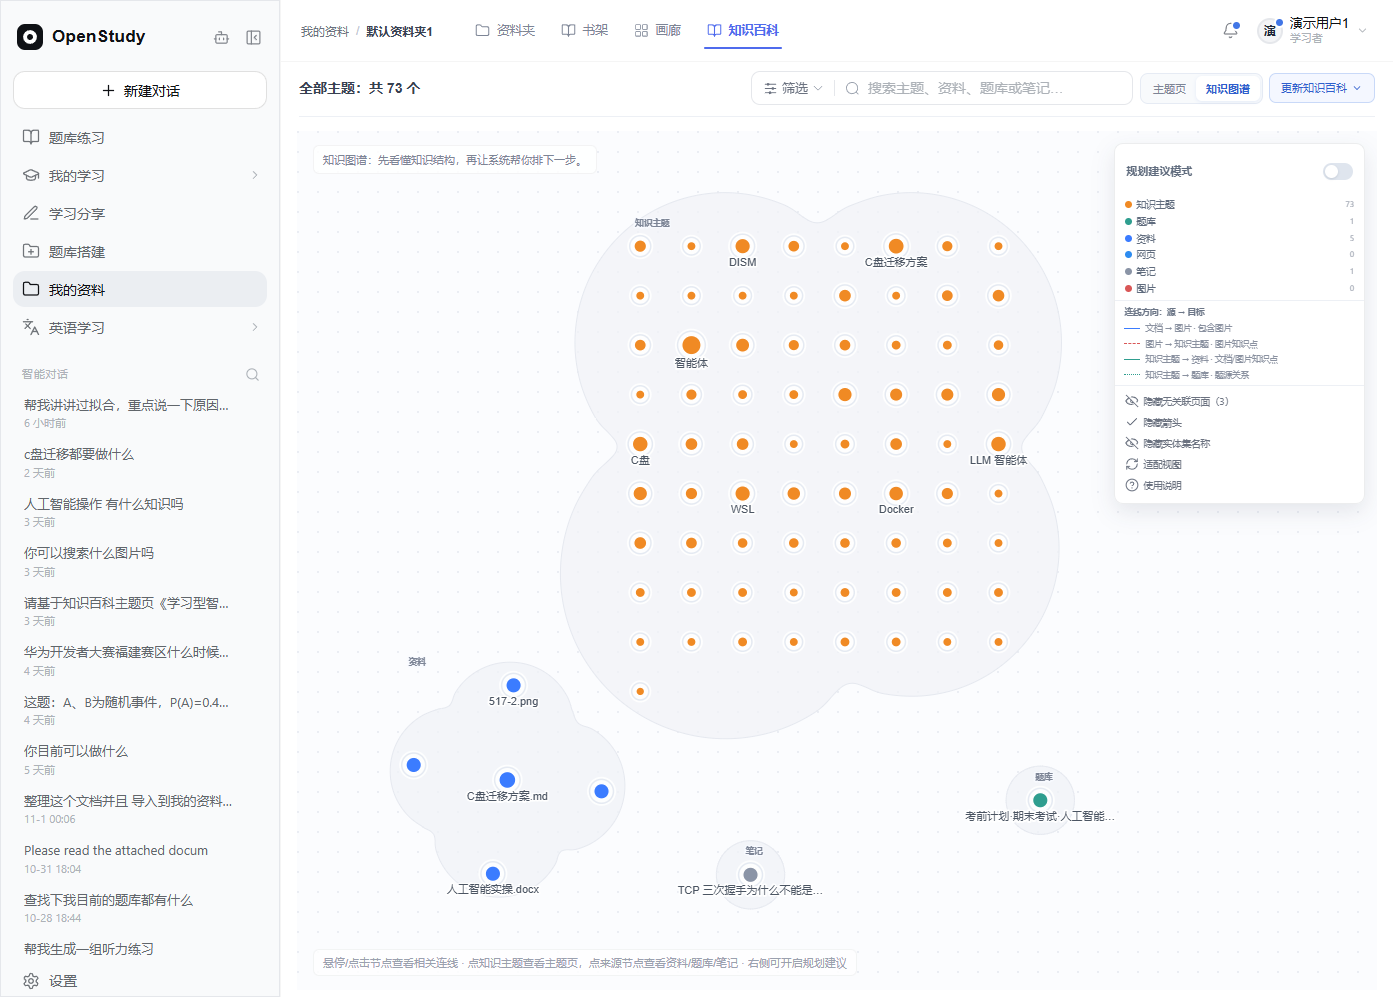
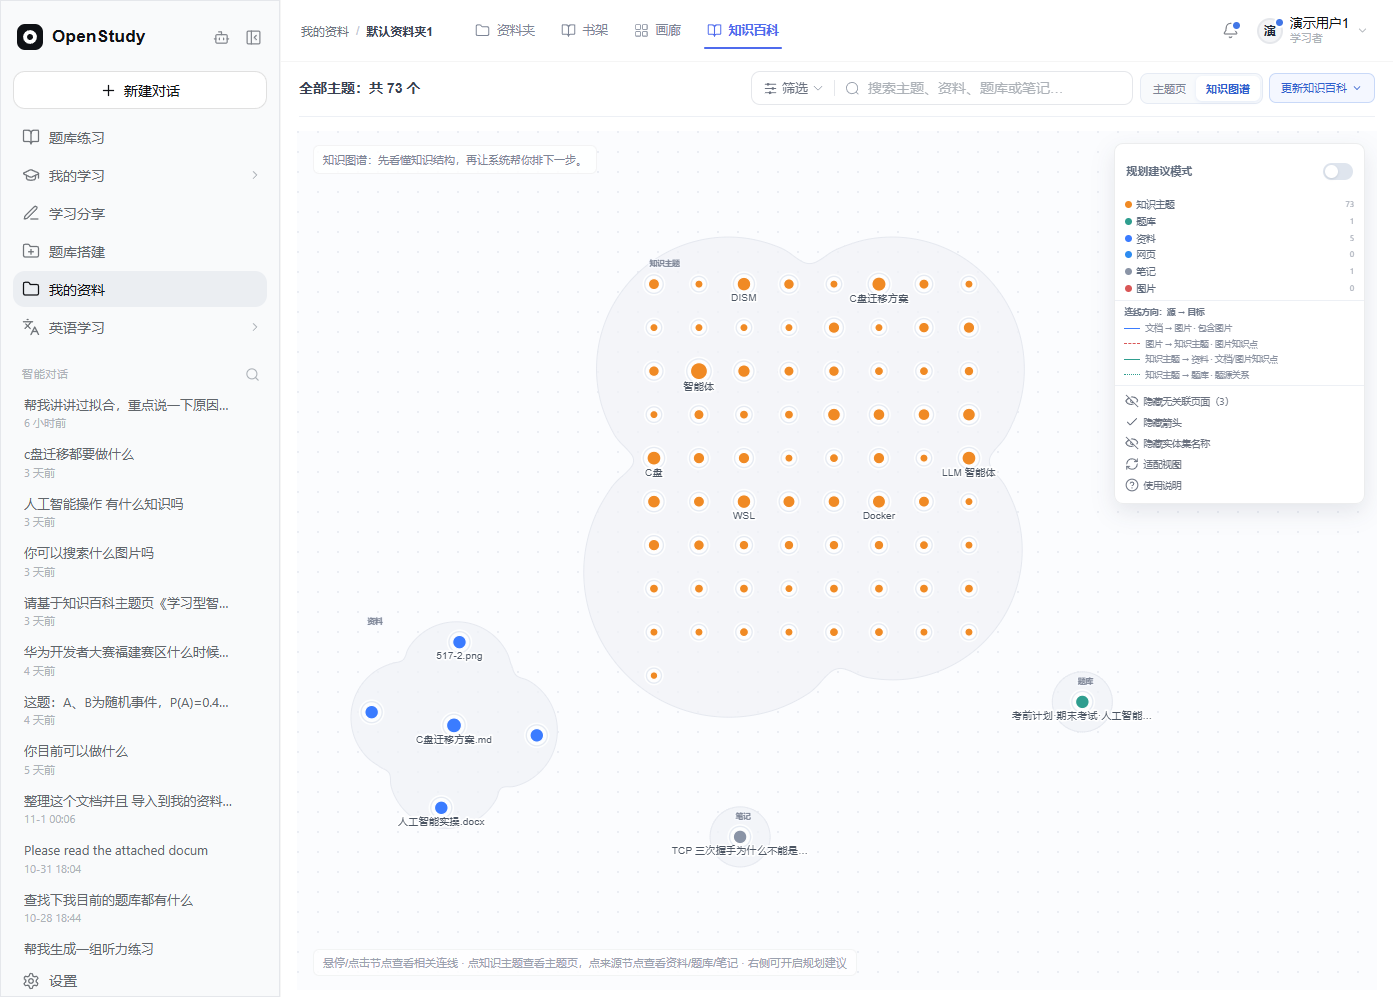
fix: expand graph canvas before groups collide

diff --git a/openstudy-vue3-ts/src/views/front/workspace/components/KnowledgeWikiPanel.vue b/openstudy-vue3-ts/src/views/front/workspace/components/KnowledgeWikiPanel.vue
@@ -1019,6 +1019,24 @@ const mapNodes = computed(() => {
       radius: Math.max(halfWidth, halfHeight)
     }
   })
+  // 如果当前窗口宽度不足以容纳最大的两组，就扩展虚拟画布；再由 fitMapView 统一缩放。
+  // 这样宁可整体缩小一点，也不会把组强行压到互相重叠。
+  let maxPairRadius = 0
+  for (let i = 0; i < groupLayouts.length; i += 1) {
+    for (let j = i + 1; j < groupLayouts.length; j += 1) {
+      maxPairRadius = Math.max(maxPairRadius, groupLayouts[i]!.radius + groupLayouts[j]!.radius)
+    }
+  }
+  const layoutWidth = Math.max(
+    usableWidth,
+    Math.ceil(maxPairRadius * 2 + groupGap + 36)
+  )
+  if (layoutWidth > usableWidth) {
+    const ratio = layoutWidth / usableWidth
+    groupLayouts.forEach((layout) => {
+      layout.center.x = Math.round(layout.center.x * ratio)
+    })
+  }
   // 组间分离：把每个实体集当成有半径的圆，用简单迭代把重叠的组推开。
   // 这是实际几何计算，不再依赖某一组固定坐标，窗口变大/变小时组与组之间始终保留 gap。
   for (let pass = 0; pass < 90; pass += 1) {
@@ -1047,7 +1065,7 @@ const mapNodes = computed(() => {
     }
     for (const layout of groupLayouts) {
       layout.center.x = Math.min(
-        Math.max(layout.radius + 18, usableWidth - layout.radius - 18),
+        Math.max(layout.radius + 18, layoutWidth - layout.radius - 18),
         Math.max(layout.radius + 18, layout.center.x)
       )
       layout.center.y = Math.min(
@@ -2403,7 +2421,8 @@ function fitMapView() {
   const scale = Math.min(
     maxFitScale,
     Math.max(
-      0.35,
+      // 组间距优先；空间不足时允许图谱略超出视口后拖拽/缩放，不把整张图缩成看不清的小点。
+      0.75,
       Math.min(
         (availableWidth - padding * 2) / Math.max(180, maxX - minX + 120),
         (mapSize.height - padding * 2) / Math.max(180, maxY - minY + 120)

diff --git a/doc/planning/知识图谱图片-文档-知识点关系-实施记录.md b/doc/planning/知识图谱图片-文档-知识点关系-实施记录.md
@@ -113,6 +113,7 @@
 - `doc/screenshots/122-kb604-initial-no-edges.png`
 - `doc/screenshots/123-kb604-layout-1719.png`
 - `doc/screenshots/125-kb604-layout-1393.png`
+- `doc/screenshots/126-kb604-layout-1287.png`
 - `doc/screenshots/117-graph-spacing.png`
 - `doc/screenshots/118-graph-zoom-labels.png`
 
